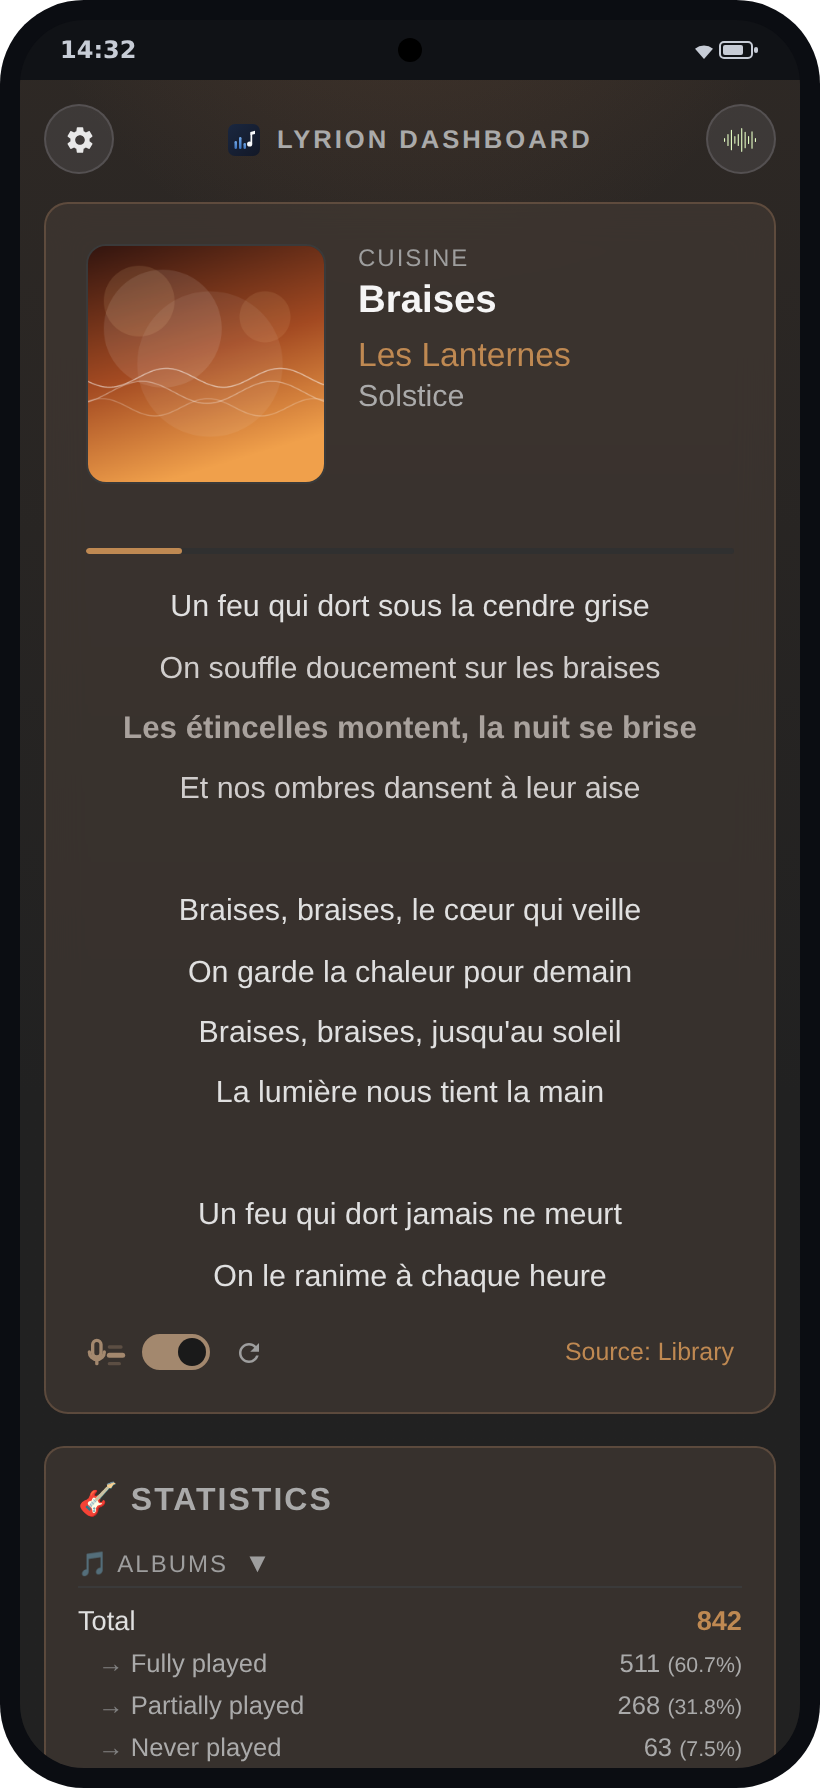
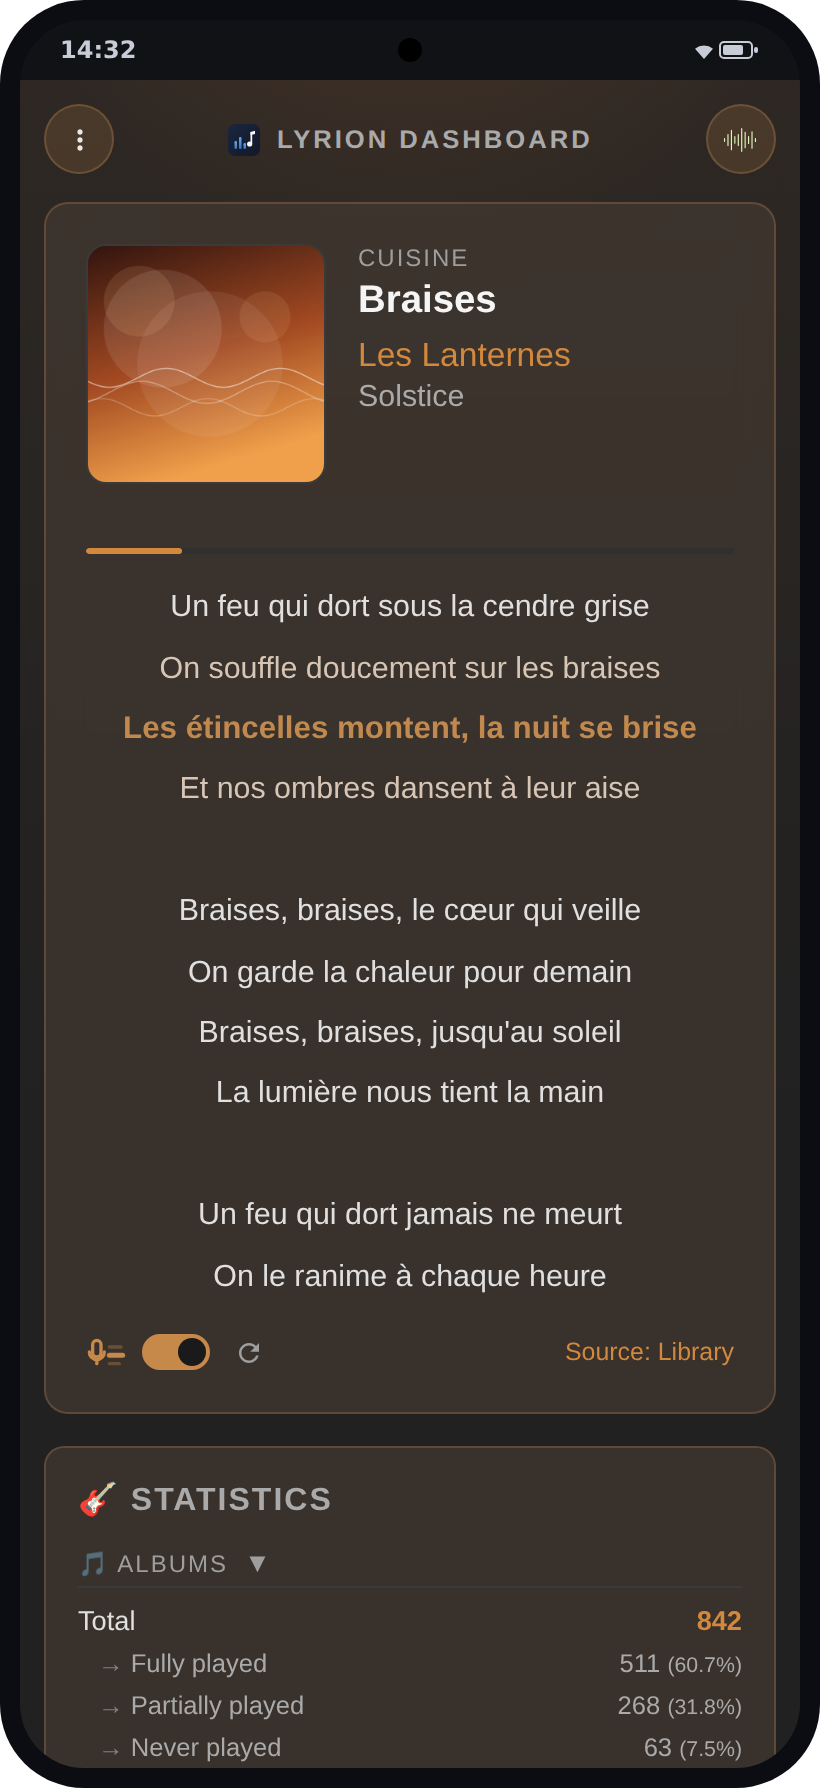
feat(android): single app menu on the header button, standard back behavior (#12)
* feat(android): single app menu on the header button, standard back behavior

The app had two overlapping menus: the settings gear in the page header
(opening the native settings directly) and an AlertDialog with
Settings/Reload/Quit shown when pressing back on the start page —
a pattern that also fights Android's predictive back gesture.

Now the header button (⋮ icon, "App menu") opens the full native menu
(Settings / Reload / Quit), and the back button/gesture behaves as
usual: WebView history first, then the system exits the app. The bridge
keeps openSettings() so older dashboard pages still work, and the page
falls back to it when running inside an older app.

Claude-Session: https://claude.ai/code/session_01Gx3katCJFAiwcwaNXpcx94

* refactor(android): drop WebView back navigation, back always exits

The dashboard is a single page and every external link leaves the
WebView, so canGoBack() never has a legitimate true case — the only way
to build history was changing the server URL in settings, where going
"back" to the old server's page is not desirable anyway.

Claude-Session: https://claude.ai/code/session_01Gx3katCJFAiwcwaNXpcx94

* docs: regenerate Android app screenshot with the ⋮ menu button

Claude-Session: https://claude.ai/code/session_01Gx3katCJFAiwcwaNXpcx94

---------

Changed region(s): [[0.1524, 0.3999, 0.8537, 0.4306], [0.0915, 0.7383, 0.2439, 0.769], [0.061, 0.0615, 0.122, 0.0923]]

diff --git a/android/app/src/main/java/com/werdeil/lyriondashboard/MainActivity.kt b/android/app/src/main/java/com/werdeil/lyriondashboard/MainActivity.kt
@@ -13,7 +13,6 @@ import android.webkit.WebResourceError
 import android.webkit.WebResourceRequest
 import android.webkit.WebView
 import android.webkit.WebViewClient
-import androidx.activity.OnBackPressedCallback
 import androidx.appcompat.app.AlertDialog
 import androidx.appcompat.app.AppCompatActivity
 import androidx.preference.PreferenceManager
@@ -43,7 +42,7 @@ class MainActivity : AppCompatActivity() {
             javaScriptEnabled = true
             domStorageEnabled = true
         }
-        // Lets the dashboard show its own settings button in the page header
+        // Lets the dashboard show its own menu button in the page header
         // (only the dashboard origin ever loads in this WebView).
         webView.addJavascriptInterface(AppBridge(), "LyrionApp")
         webView.webViewClient = object : WebViewClient() {
@@ -87,15 +86,8 @@ class MainActivity : AppCompatActivity() {
         findViewById<View>(R.id.button_retry).setOnClickListener { reload() }
         findViewById<View>(R.id.button_settings).setOnClickListener { openSettings() }
 
-        onBackPressedDispatcher.addCallback(this, object : OnBackPressedCallback(true) {
-            override fun handleOnBackPressed() {
-                if (webView.canGoBack()) {
-                    webView.goBack()
-                } else {
-                    showMenuDialog()
-                }
-            }
-        })
+        // No back handling: the dashboard is a single page (external links
+        // leave the WebView), so back always just exits the app.
     }
 
     override fun onResume() {
@@ -174,6 +166,12 @@ class MainActivity : AppCompatActivity() {
     }
 
     private inner class AppBridge {
+        @JavascriptInterface
+        fun openMenu() {
+            runOnUiThread { [email redacted]() }
+        }
+
+        // Kept for dashboards older than the openMenu bridge.
         @JavascriptInterface
         fun openSettings() {
             runOnUiThread { [email redacted]() }

diff --git a/static/nowplaying.js b/static/nowplaying.js
@@ -12,14 +12,20 @@ document.querySelectorAll('.stat-group-title').forEach(function(title) {
 var LYRION_HOST = document.body.dataset.lyrionHost || '';
 
 // Inside the Android app a native bridge (window.LyrionApp) is injected;
-// reveal the header's settings button and wire it to the native screen.
+// reveal the header's menu button and wire it to the native app menu
+// (falling back to the settings screen with app versions that predate it).
 (function () {
-    var appSettings = document.getElementById('app-settings');
-    if (appSettings && window.LyrionApp && window.LyrionApp.openSettings) {
-        appSettings.hidden = false;
-        appSettings.addEventListener('click', function (e) {
+    var appMenu = document.getElementById('app-menu');
+    var bridge = window.LyrionApp;
+    if (appMenu && bridge && (bridge.openMenu || bridge.openSettings)) {
+        appMenu.hidden = false;
+        appMenu.addEventListener('click', function (e) {
             e.preventDefault();
-            window.LyrionApp.openSettings();
+            if (bridge.openMenu) {
+                bridge.openMenu();
+            } else {
+                bridge.openSettings();
+            }
         });
     }
 })();

diff --git a/static/style.css b/static/style.css
@@ -764,14 +764,14 @@ hr {
 }
 
 /* display:inline-flex would override the hidden attribute (used by the
-   app-settings button, revealed only inside the Android app). */
+   app-menu button, revealed only inside the Android app). */
 .lyrion-link[hidden] {
     display: none;
 }
 
-/* Settings (app only) | centered title | Lyrion link. The 1fr side columns
+/* App menu (app only) | centered title | Lyrion link. The 1fr side columns
    keep the title centered and the buttons symmetric, and the layout holds
-   when the settings button is hidden (web). */
+   when the menu button is hidden (web). */
 .page-header {
     display: grid;
     grid-template-columns: 1fr auto 1fr;
@@ -788,7 +788,7 @@ hr {
     justify-self: end;
 }
 
-#app-settings {
+#app-menu {
     grid-column: 1;
     justify-self: start;
 }

diff --git a/templates/nowplaying.html b/templates/nowplaying.html
@@ -10,9 +10,9 @@
     <div class="page-header">
         {# Only shown inside the Android app (which injects window.LyrionApp);
            sits left of the title, mirroring the Lyrion link on the right. #}
-        <a class="lyrion-link" id="app-settings" href="#" hidden title="{{ t.app_settings }}">
+        <a class="lyrion-link" id="app-menu" href="#" hidden title="{{ t.app_menu }}">
             <svg viewBox="0 0 24 24" fill="#e8e8e8" aria-hidden="true">
-                <path d="M19.14,12.94c0.04-0.3,0.06-0.61,0.06-0.94c0-0.32-0.02-0.64-0.07-0.94l2.03-1.58c0.18-0.14,0.23-0.41,0.12-0.61l-1.92-3.32c-0.12-0.22-0.37-0.29-0.59-0.22l-2.39,0.96c-0.5-0.38-1.03-0.7-1.62-0.94L14.4,2.81c-0.04-0.24-0.24-0.41-0.48-0.41h-3.84c-0.24,0-0.43,0.17-0.47,0.41L9.25,5.35C8.66,5.59,8.12,5.92,7.63,6.29L5.24,5.33c-0.22-0.08-0.47,0-0.59,0.22L2.74,8.87C2.62,9.08,2.66,9.34,2.86,9.48l2.03,1.58C4.84,11.36,4.8,11.69,4.8,12s0.02,0.64,0.07,0.94l-2.03,1.58c-0.18,0.14-0.23,0.41-0.12,0.61l1.92,3.32c0.12,0.22,0.37,0.29,0.59,0.22l2.39-0.96c0.5,0.38,1.03,0.7,1.62,0.94l0.36,2.54c0.05,0.24,0.24,0.41,0.48,0.41h3.84c0.24,0,0.44-0.17,0.47-0.41l0.36-2.54c0.59-0.24,1.13-0.56,1.62-0.94l2.39,0.96c0.22,0.08,0.47,0,0.59-0.22l1.92-3.32c0.12-0.22,0.07-0.47-0.12-0.61L19.14,12.94z M12,15.6c-1.98,0-3.6-1.62-3.6-3.6s1.62-3.6,3.6-3.6s3.6,1.62,3.6,3.6S13.98,15.6,12,15.6z"/>
+                <path d="M12 8c1.1 0 2-.9 2-2s-.9-2-2-2-2 .9-2 2 .9 2 2 2zm0 2c-1.1 0-2 .9-2 2s.9 2 2 2 2-.9 2-2-.9-2-2-2zm0 6c-1.1 0-2 .9-2 2s.9 2 2 2 2-.9 2-2-.9-2-2-2z"/>
             </svg>
         </a>
         <h1>

diff --git a/scripts/generate_screenshots.py b/scripts/generate_screenshots.py
@@ -296,13 +296,15 @@ READY_JS = """
 """
 
 AUTO_MODE_JS = "try { localStorage.setItem('np-lyrics-mode', 'auto'); } catch (e) {}"
-ANDROID_BRIDGE_JS = "window.LyrionApp = { openSettings: function () {} };"
+ANDROID_BRIDGE_JS = (
+    "window.LyrionApp = { openMenu: function () {}, openSettings: function () {} };"
+)
 
 
 def capture(browser, base_url, track, *, locale, viewport, dpr, android=False):
     """Point a fresh browser context at the app showing `track` and return a
     PNG screenshot; `android` injects the WebView bridge so the in-app
-    settings button appears."""
+    menu button appears."""
     SCENARIO.clear()
     SCENARIO.update(TRACKS[track])
     ctx = browser.new_context(

diff --git a/i18n.py b/i18n.py
@@ -22,7 +22,7 @@ TRANSLATIONS = {
         "no_lyrics_web": "Aucune parole trouvée sur le web",
         "resume_scroll": "Reprendre le défilement auto",
         "open_lyrion": "Ouvrir dans Lyrion",
-        "app_settings": "Paramètres de l'application",
+        "app_menu": "Menu de l'application",
         "cover_alt": "Pochette",
         "source_prefix": "Source :",
         "source_library": "Bibliothèque",
@@ -59,7 +59,7 @@ TRANSLATIONS = {
         "no_lyrics_web": "No lyrics found on the web",
         "resume_scroll": "Resume auto-scroll",
         "open_lyrion": "Open in Lyrion",
-        "app_settings": "App settings",
+        "app_menu": "App menu",
         "cover_alt": "Cover",
         "source_prefix": "Source:",
         "source_library": "Library",

diff --git a/android/README.md b/android/README.md
@@ -20,8 +20,8 @@ provides the native shell.
   enter the URL manually
 - Keeps the screen on while the dashboard is displayed (configurable)
 - Works over plain HTTP on the local network (cleartext traffic allowed)
-- Back button navigates the WebView history; on the start page it opens a
-  small menu (Settings / Reload / Quit)
+- App menu (Settings / Reload / Quit) opened from the ⋮ button in the
+  dashboard header; the back button/gesture simply leaves the app
 
 ## Requirements
 